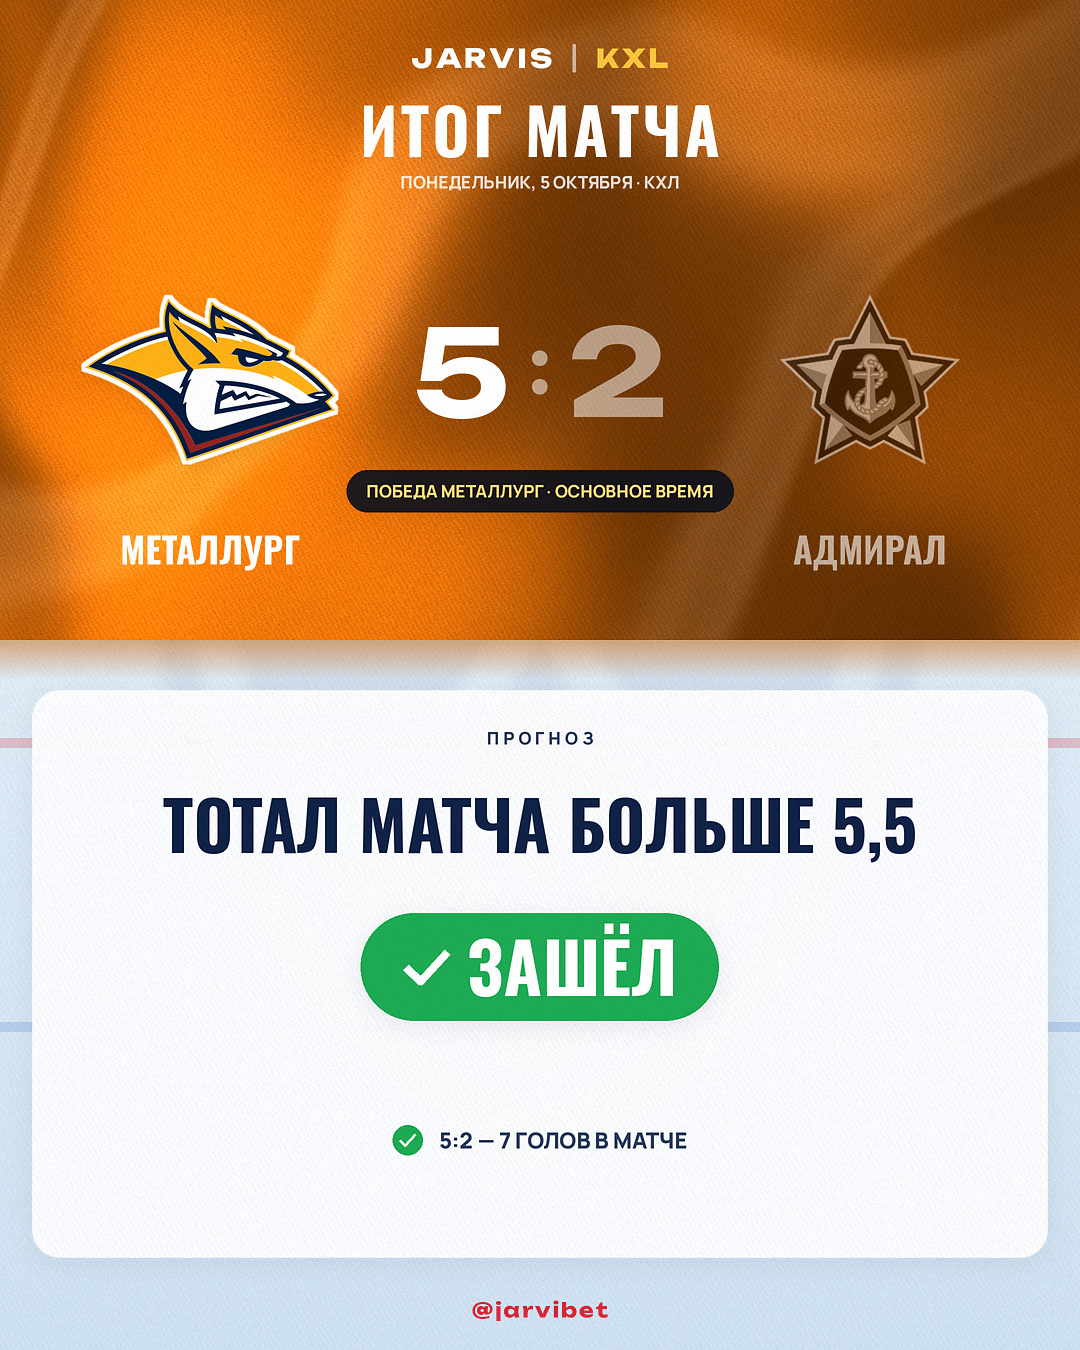
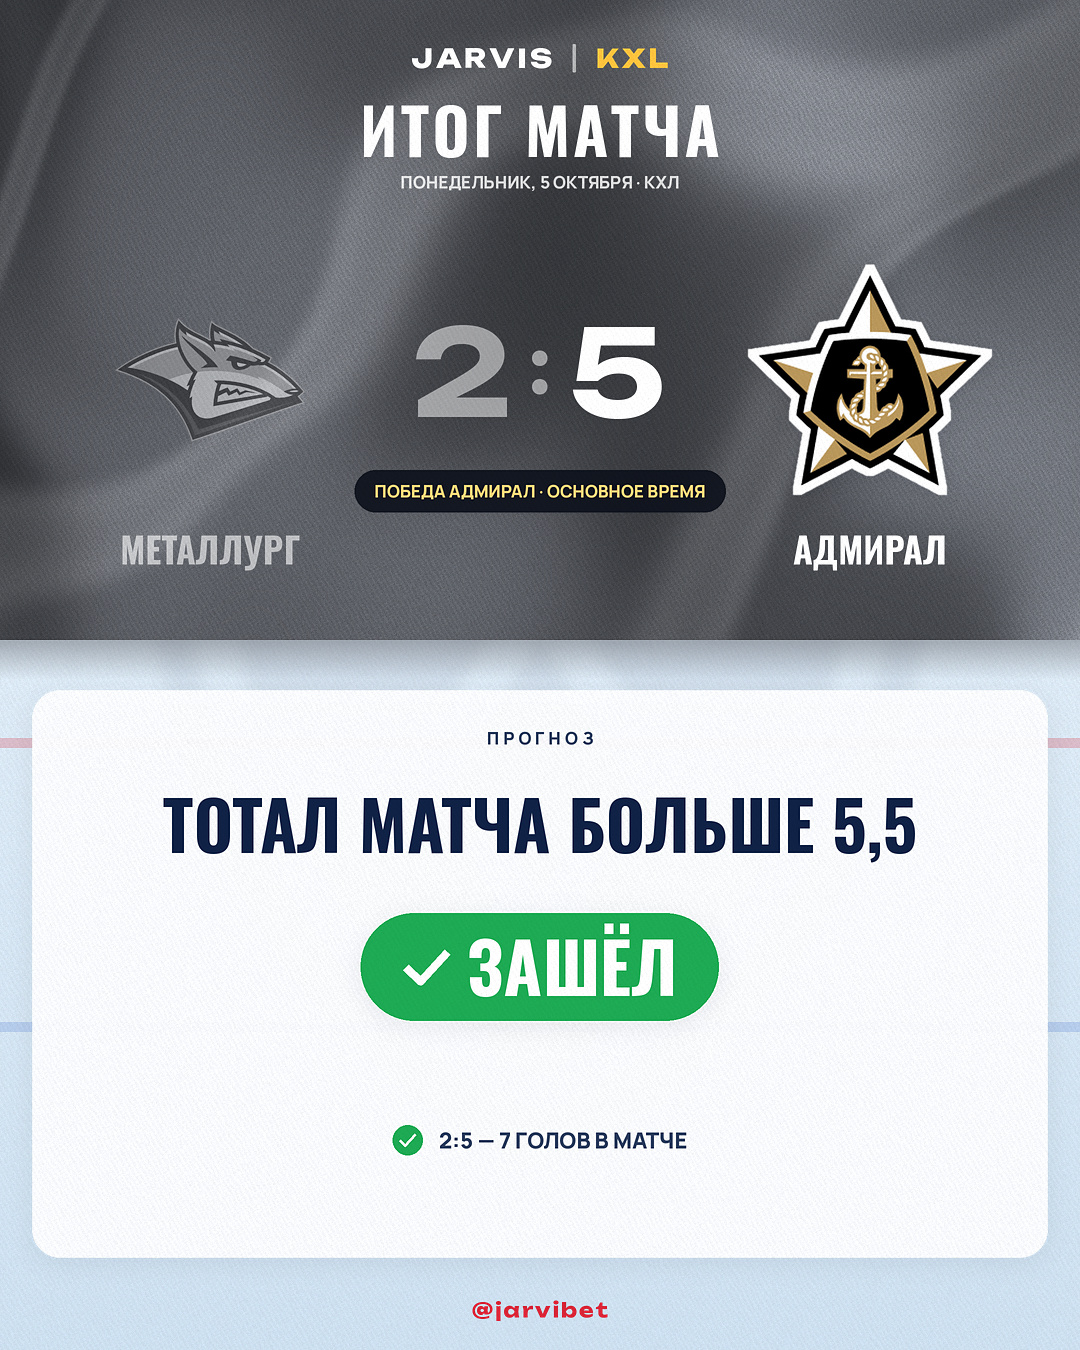
KHL 5 Oct: Металлург — Адмирал was 2:5, Адмирал won
Claude-Session: https://claude.ai/code/session_01YD1k5W9KNewSKhsbA1rmz9

diff --git a/render/make_picks_0510_khl.py b/render/make_picks_0510_khl.py
@@ -1,6 +1,6 @@
 """Послематчевый баннер к прогнозу КХЛ 5 октября (ice_more2, style='verdict').
 
-Металлург — Адмирал 5:2 (основное время): тотал больше 5,5 — 7 голов, ставка зашла.
+Металлург — Адмирал 2:5 (основное время): тотал больше 5,5 — 7 голов, ставка зашла.
 Запуск из папки render: python make_picks_0510_khl.py → out/0510/pick_*.jpg
 """
 import os
@@ -11,9 +11,9 @@ OUT = 'out/0510'
 DAY = 'понедельник, 5 октября'
 
 BANNERS = [
-    ('metallurg_admiral', dict(home='Металлург', away='Адмирал', sh=5, sa=2, mark='', pick=dict(
+    ('metallurg_admiral', dict(home='Металлург', away='Адмирал', sh=2, sa=5, mark='', pick=dict(
         text='ТОТАЛ МАТЧА БОЛЬШЕ 5,5', hit=True,
-        checks=[('5:2 — 7 ГОЛОВ В МАТЧЕ', True)]))),
+        checks=[('2:5 — 7 ГОЛОВ В МАТЧЕ', True)]))),
 ]
 
 os.makedirs(OUT, exist_ok=True)
